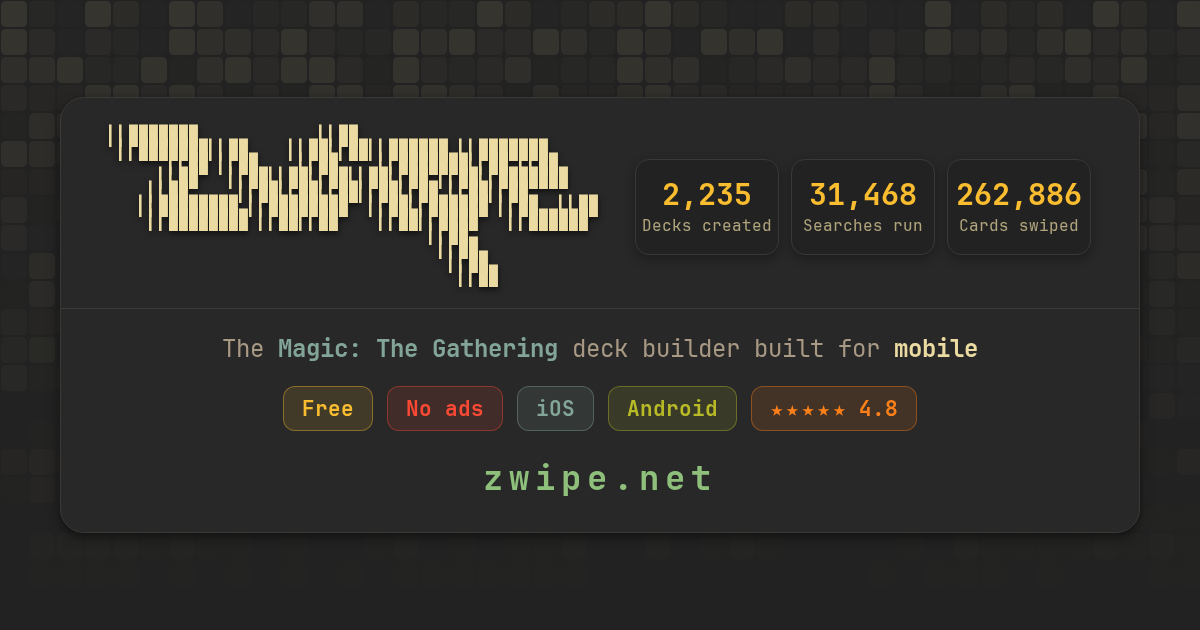
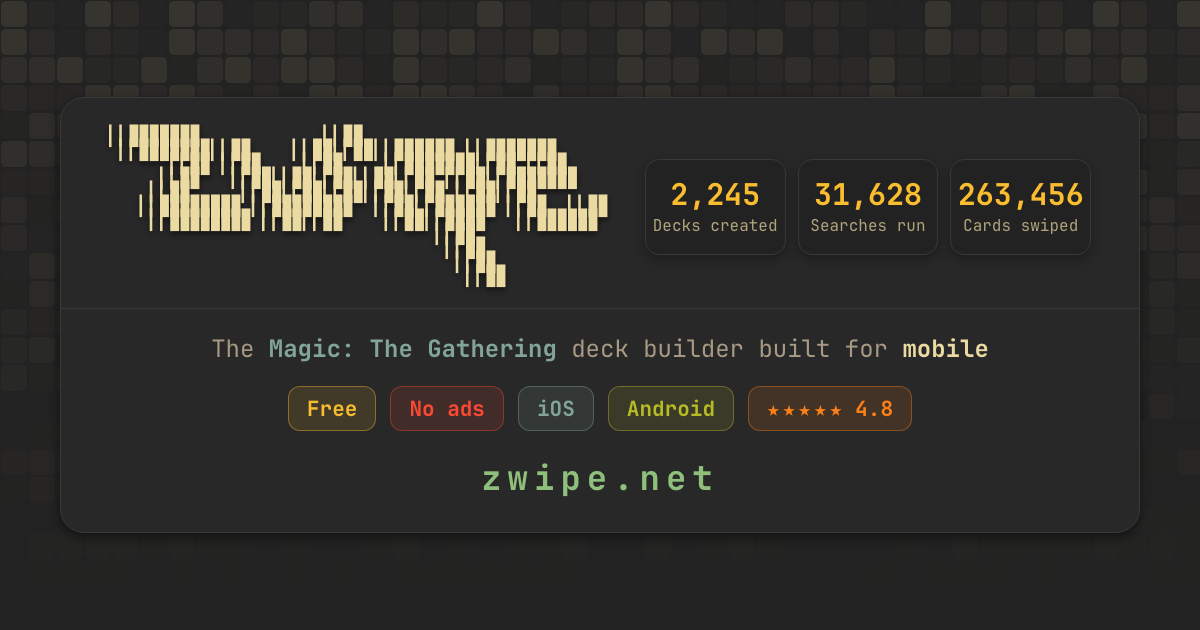
Stats snapshot and OG card: 2,245 decks, 31,628 searches, 263,456 swipes

diff --git a/context/marketing/og_default.html b/context/marketing/og_default.html
@@ -225,9 +225,9 @@ body {
                                   ▎▎▉▉
                                    ▎▎▉▉</pre>
       <div class="stats">
-        <div class="stat"><span class="stat-num">2,235</span><span class="stat-label">Decks created</span></div>
-        <div class="stat"><span class="stat-num">31,468</span><span class="stat-label">Searches run</span></div>
-        <div class="stat"><span class="stat-num">262,886</span><span class="stat-label">Cards swiped</span></div>
+        <div class="stat"><span class="stat-num">2,245</span><span class="stat-label">Decks created</span></div>
+        <div class="stat"><span class="stat-num">31,628</span><span class="stat-label">Searches run</span></div>
+        <div class="stat"><span class="stat-num">263,456</span><span class="stat-label">Cards swiped</span></div>
       </div>
     </div>
     <hr class="rule" />
